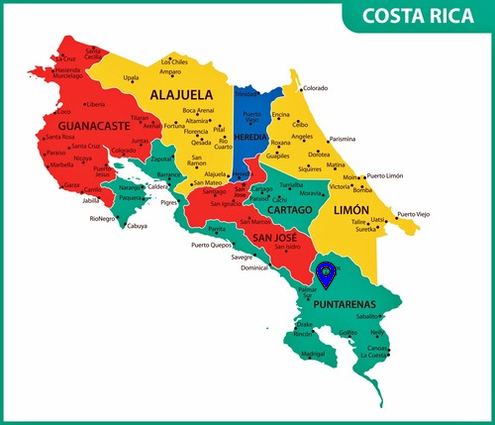
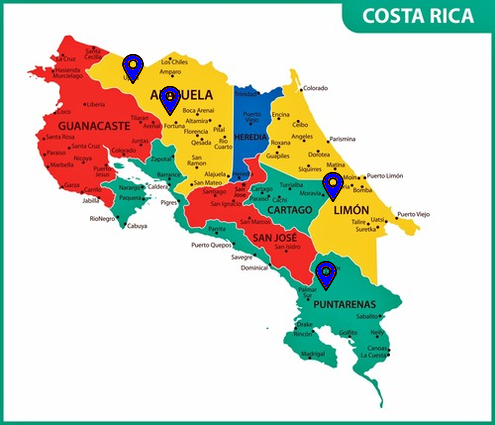
Arreglando bugs

diff --git a/src/main/java/sistema/presentation/empleado/empleadoAgregar/View.java b/src/main/java/sistema/presentation/empleado/empleadoAgregar/View.java
@@ -197,13 +197,17 @@ public class View extends javax.swing.JFrame implements java.util.Observer {
                 Point point = new Point((int) e.getPoint().getX(), (int) e.getPoint().getY());
                 Sucursal sucursal = controller.getSucursalFromPoint(point);
                  if(sucursal != null) {
+//                     if(e.getPoint().getX() != point.getX() && e.getPoint().getY() != point.getY() || e.getPoint().getX() == point.getX() && e.getPoint().getY() == point.getY())
                      ubicacion = controller.getPoint(sucursal);
                      mapa.setUbicSucursal(ubicacion);
                      JLabel imagen = mapa.mostrarUbicaciones();
                      jLabelMapa.setIcon(imagen.getIcon());
                      sucursalEmpleadoTxt.setText(sucursal.getReferencia());
-                 }else
+                 }else {
+                     JLabel imagen = mapa.mostrarUbicaciones();
+                     jLabelMapa.setIcon(imagen.getIcon());
                      sucursalEmpleadoTxt.setText("");
+                 }
             }
         });
     }

diff --git a/src/main/java/sistema/presentation/empleado/empleadoAgregar/ImagenModel.java b/src/main/java/sistema/presentation/empleado/empleadoAgregar/ImagenModel.java
@@ -45,9 +45,11 @@ public class ImagenModel extends JLabel {
                 graphics.drawImage(icono, ubicSucursales.get(i).x-16, ubicSucursales.get(i).y-30, null);
             }
             ImageIO.write(mapa, "PNG", new File("mapaCargar.png"));
-            mostrarPuntoRojo();
+            if(ubicSucursal !=null) {
+                mostrarPuntoRojo();
+            }
             this.setIcon(new ImageIcon(mapa));
-
+            ubicSucursal = null;
         } catch (Exception e) {
         }
         return this;
